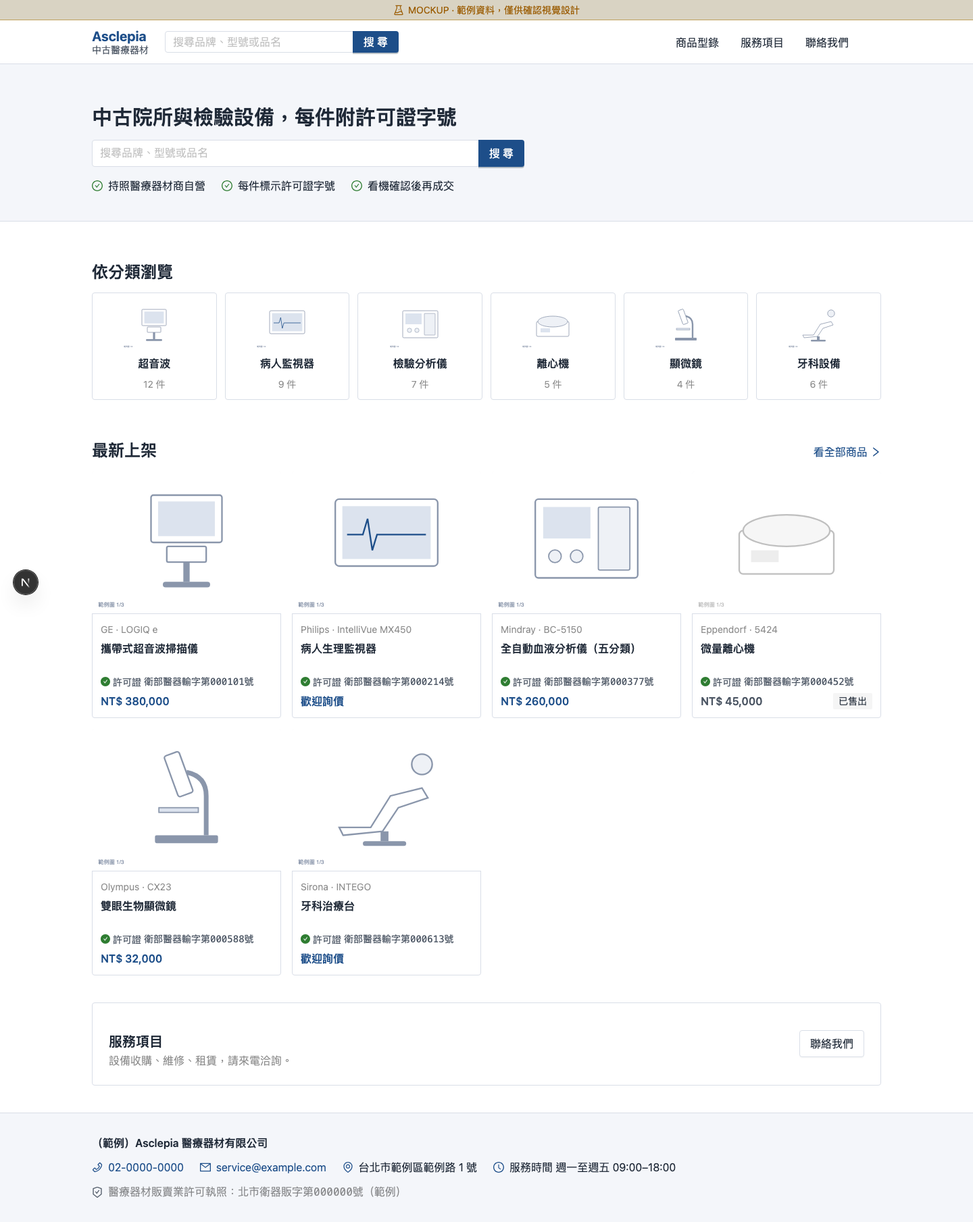
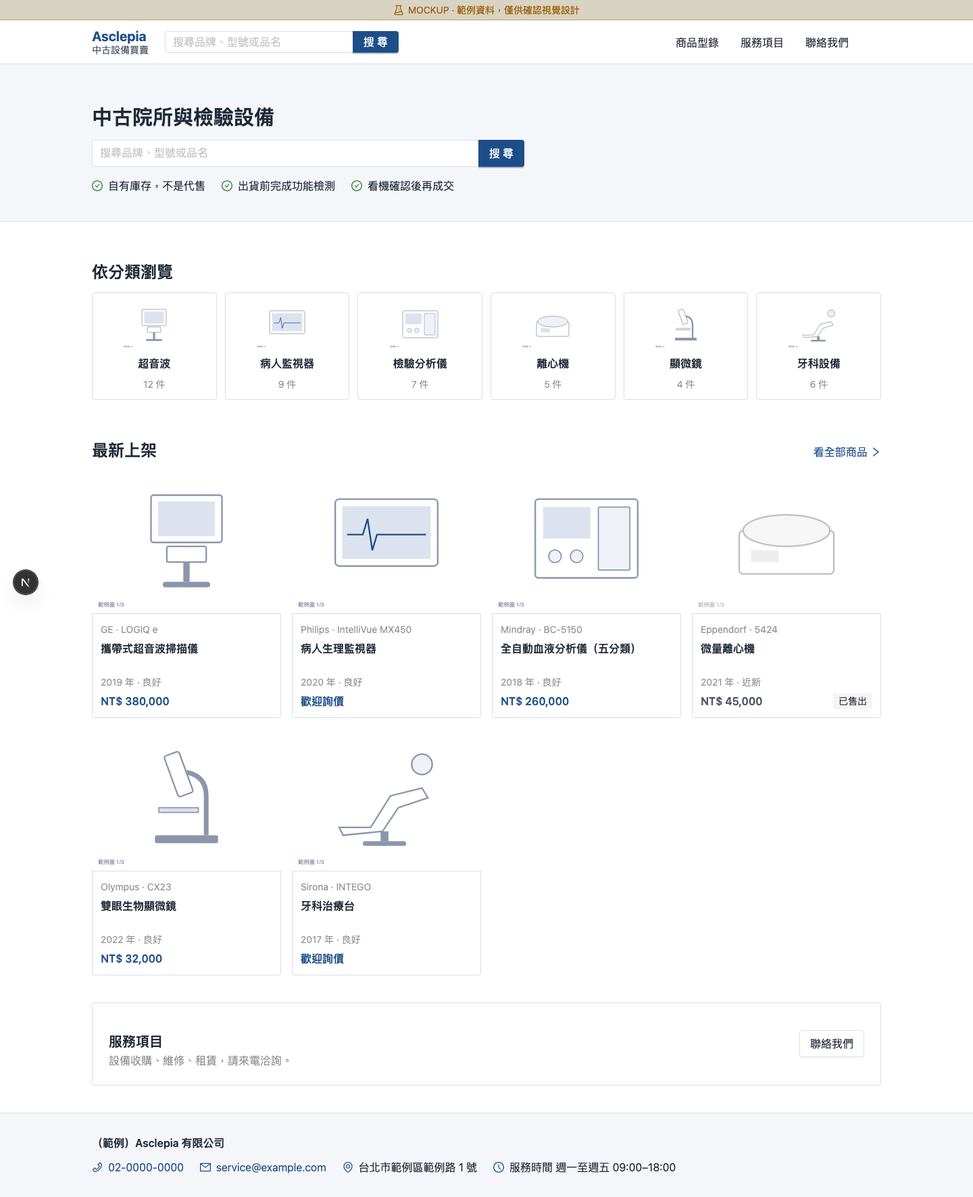
docs: reposition Asclepia as used-equipment trading and record legal boundary
- CLAUDE.md v1.1：§0／§0.1／R11／R16 改寫，不做清單拿掉醫材法前提
- catalog.md v0.2：licenseNo 選填、移除上架必填 CHECK（R6，待用戶確認）
- research §5：醫材法 §3 逐字，品項邊界 🔒 待律師／衛生局
- mockup 截圖重拍（hydration 陽性／陰性對照通過），新增 admin-draft

diff --git a/CLAUDE.md b/CLAUDE.md
@@ -6,16 +6,16 @@
 
 > 狀態：**Scaffold 完成（2026-10-31）**：Next.js 16 + antd 6 骨架，`pnpm check` 和 `pnpm test:e2e` 全綠。下一步是 catalog M1。
 >
-> 本公司持有醫療器材販賣業許可執照，網站自營賣中古院所設備與檢驗設備：前台是型錄＋詢價，後台負責上架。
-> 棧規則附件：`docs/stack-rules/nextjs-prisma-antd.md`（R21，⏳ 待人 review，執法點 W1–W10 尚未全部接線）。商品模組設計：`docs/modules/catalog.md`（APPROVED）。視覺 mockup：`docs/mockups/README.md`（提案）。
-> 🔴 這是受醫療器材管理法規範的業務：§0.1 不做清單、R11 合規不變量都來自法條，**法規解讀不屬於 Claude Code 可以自行裁定的研究**（R7）。
+> 網站定位是**中古設備買賣**（用戶 2026-10-31：「當作中古器材買賣就行，我賣的是設備，不是『醫療』器材」）：自營賣中古院所設備與檢驗設備，前台是型錄＋詢價，後台負責上架。
+> 棧規則附件：`docs/stack-rules/nextjs-prisma-antd.md`（R21，⏳ 待人 review，執法點 W1–W10 尚未全部接線）。商品模組設計：`docs/modules/catalog.md`（APPROVED；v0.2 定位修訂待用戶確認）。視覺 mockup：`docs/mockups/README.md`（提案）。
+> 🔴 法規邊界：一件設備算不算醫療器材，依醫材法 §3 看它的設計與用途（診斷、治療…），不看新舊或賣方怎麼稱呼（research §5）。哪些品項落在線內**不屬於 Claude Code 可以裁定的事**（R7），送律師或衛生局 🔒。
 
 ---
 
 ## 0. 專案身份
 
 - **名稱**：Asclepia
-- **用途**：持照醫療器材商（本公司）自營的中古醫療器材網站。前台提供型錄與詢價，後台負責上架。
+- **用途**：本公司自營的中古設備買賣網站。前台提供型錄與詢價，後台負責上架。
 - **語言**：TypeScript
 - **運行**：單一 Next.js 應用（前台和後台在同一個 repo）＋ PostgreSQL；部署平台未定（§2.4）
 - **授權**：proprietary（用戶未指明，先用預設）
@@ -23,9 +23,9 @@
 
 ### 0.1 定位 ≠ MVP（pre-dev #1 #3）
 
-**一句話**：一家持照醫療器材商的中古院所與檢驗設備線上型錄。買家看得到規格和許可證字號，詢價後到場看機，線下成交。
+**一句話**：一家公司自營的中古院所與檢驗設備線上型錄。買家看得到照片、規格和狀況，詢價後到場看機，線下成交。
 
-**完整定位**：自營車行模式。業務組合跟參考站 [used-equip](https://www.used-equip.com.tw/service) 一樣是「銷售／收購／維修／租賃」，但參考站賣的是電子測試儀器，不是醫療器材（研究見 `docs/research/2026-10-31-reference-and-regulation.md` §1）。
+**完整定位**：自營車行模式。業務組合跟參考站 [used-equip](https://www.used-equip.com.tw/service) 一樣是「銷售／收購／維修／租賃」，參考站賣電子測試儀器、沒有醫材商執照，本站比照它做一般中古設備買賣（研究見 `docs/research/2026-10-31-reference-and-regulation.md` §1）。
 - **唯一賣方**：本公司
 - **買方**：醫療器材商、一般民眾
 - **品類**：院所專業設備、檢驗／實驗室設備
@@ -38,26 +38,25 @@
 
 | 定位有、MVP 沒有 | 裁定 |
 |---|---|
-| 收購估價 | 用戶 2026-10-31 裁定 MVP 只做型錄＋詢價。另外醫材法 §17「醫療器材商不得購入…非醫療器材商供應之醫療器材」，開做前要先確認法規 🔒 |
+| 收購估價 | 用戶 2026-10-31 裁定 MVP 只做型錄＋詢價 |
 | 維修／租賃預約 | 同一次裁定，MVP 不做 |
 
 | 不做 | 理由 |
 |---|---|
-| 第三方刊登／多賣家 | 用戶裁定採自營（2026-10-31）。第三方賣家依 §13 各自要有執照，平台還得負責驗證資格 |
-| 線上下單付款 | 通訊交易規定第四點：線上販售「以第一等級及附件所列之第二等級醫療器材品項為限」（附件只有 19 項，都是居家耗材類）。本站品類幾乎都不在內 |
+| 第三方刊登／多賣家 | 用戶裁定採自營（2026-10-31） |
+| 線上下單付款 | 用戶裁定 MVP 只做型錄＋詢價（2026-10-31）。若日後要開，品項中屬醫療器材者受通訊交易規定第四點限制（research §3），開做前先 🔒 |
 | 買家會員系統 | 詢價用不到會員，個資收越少越好 |
-| 療效／醫療效能文案 | 依 §40/§41，醫療器材廣告要事前核准；依 §44，專業用器材的廣告只能登在給醫事人員看的通路 |
-| 上架沒有許可證字號或登錄字號的器材 | §70-1-7 處罰「媒介…意圖販賣而陳列」未辦查驗登記的器材 |
+| 療效／醫療效能文案 | 醫材法 §3 以「診斷、治療、緩解…」定義醫療器材：商品文案寫療效，等於自己把設備講成醫療器材，文案也會落入 §6 醫療器材廣告 |
 
 ### 0.2 開工前決策紀錄（`docs/pre-dev-decisions.md` 25 格）
 
 | # | 決策 | 狀態 |
 |---|---|---|
 | 1 / 3 | §0.1 | ✅ |
-| 2 分母 | 品類：《醫療器材分類分級管理辦法》附表＋公司現有庫存。商品頁欄位：參考站商品頁＋通訊交易規定第五點的揭露欄位。法規：醫材法全文 | ✅ 來源見 research |
-| 4 首位使用者 | 本公司（已有醫材商執照）。真實資料＝公司現有庫存 | ⏳ 請提供 10–20 筆真實商品，當資料模型的壓力測試 |
+| 2 分母 | 品類：公司現有庫存（初始分類清單由用戶提供）。商品頁欄位：參考站商品頁。法規：醫材法全文（只用來畫「哪些品項算醫療器材」的邊界，research §5） | ✅ 來源見 research |
+| 4 首位使用者 | 本公司。真實資料＝公司現有庫存 | ⏳ 請提供 10–20 筆真實商品，當資料模型的壓力測試 |
 | 5 棧 | §2.0 對照表 | ✅；棧規則 ⏳ scaffold 後同一天生成（產生器要讀實際鎖檔版本） |
-| 6 資料根 | **單租戶**（唯一賣方，不做 RLS 多租戶）· 後台角色 deny-by-default · 金額存 TWD 整數 `Decimal(12,0)`，null＝詢價，禁用 float · audit 只能新增（append-only）· 商品留來源／流向欄位（§19） | ✅ |
+| 6 資料根 | **單租戶**（唯一賣方，不做 RLS 多租戶）· 後台角色 deny-by-default · 金額存 TWD 整數 `Decimal(12,0)`，null＝詢價，禁用 float · audit 只能新增（append-only）· 商品留收購來源欄位（來歷紀錄，只在後台可見） | ✅ |
 | 7 授權 | 專案 proprietary。相依套件只收 MIT／BSD／Apache-2.0／ISC，其他授權逐案讀 LICENSE 本文 | ✅ |
 | 8 fork／自研 | 自研。參考站只看功能的形狀，不抄程式碼、文案、圖片 | ✅ |
 | 9 repo 形態 | 單一 Next.js app 的 modular monolith（`src/modules/<domain>`）。dependency-cruiser 進 CI，擋循環依賴和跨模組 deep import | ✅ |
@@ -121,12 +120,12 @@
 
 | 規則 | 說明 |
 |---|---|
-| **R11** | **醫材合規不變量**（醫材法 §70-1-7、§40、通訊交易規定第五點）：①商品上架時**許可證字號或登錄字號必填**（草稿可以先空著），DB 層用 CHECK 約束「`status='PUBLISHED'` ⇒ `licenseNo` 非空」，前台商品頁一級顯示；②前台**沒有任何下單、付款、購物車路徑**，只能詢價；③後台文案欄位擋療效字詞（關鍵字守衛，送出時警告並寫 audit）。執法點：Prisma schema + migration CHECK + 一支 e2e 驗證「缺字號無法上架」+ grep 守衛擋 `checkout\|cart\|payment` 路由 |
+| **R11** | **型錄不變量**（2026-10-31 定位改為中古設備買賣後修訂）：①前台**沒有任何下單、付款、購物車路徑**，只能詢價（MVP 範圍，用戶裁定）；②後台文案欄位擋療效字詞（醫材法 §3 以療效定義醫療器材、§6 定義醫材廣告；關鍵字守衛，送出時警告並寫 audit）；③醫療器材許可證字號**選填**，有值才在商品頁顯示。執法點：grep 守衛擋 `checkout\|cart\|payment` 路由 + `src/modules/catalog/efficacy-words.ts` 單元測試 |
 | **R12** | **單語 zh-TW，不上 i18n 框架**：買方都在台灣，法規要求的揭露文字是中文。UI 文案集中在 `src/copy/`，不散落在元件裡，以後要多語時才有遷移起點 |
 | **R13** | **Component spacing**：button group / form group 一律用 antd `<Flex gap>` / `<Space>`，元件裡禁止用 inline `style` 的 margin 做間距。執法點：`scripts/guards/no-inline-margin.sh` |
 | **R14** | **新代碼框架**：一律放在同一個 Next.js App Router app 裡，Server Component 優先；不另外開 SPA 或獨立後端服務 |
 | **R15** | **出貨前清單**：solo 直接 commit，不走 PR（memory `feedback_no_pr_workflow`）。每個功能標「完成」前必須走過 `docs/pre-pr-checklist.md` |
-| **R16** | **前端設計鐵則**：所有前端產出必過 `docs/frontend-design-principles.md` **§A 普世核心**（token、a11y、全狀態、響應式、複用、文案）+ **§C 設計流程迴圈**。🔴 **§B 美學 profile 於開工時決定**（見 `docs/pre-dev-decisions.md` §二）——profile 的正確來源是**目標使用者的母心智模型與競品實測**，不是預設鎖一個名字（2026-09 更新：前一版鎖 `modern-SaaS-craft`，在一個 B2B 表單專案被實戰推翻 —— 那個 profile 與使用者要的「紙的形狀」全面相反）。定了之後 Claude Code 不得自行換；要換由人改本鐵則並說明理由。**本專案（2026-10-31）**：用戶說「前端視覺設計不限制」，授權 Claude 裁定，選自訂 profile **`spec-catalog`**：規格表優先、商品照片大、許可證字號等合規欄位一級顯示、中高密度、不走 SaaS 儀表板語言。8 項細節在第一個前端 M0 競品實測後寫進 `frontend-design-principles.md` §B0 |
+| **R16** | **前端設計鐵則**：所有前端產出必過 `docs/frontend-design-principles.md` **§A 普世核心**（token、a11y、全狀態、響應式、複用、文案）+ **§C 設計流程迴圈**。🔴 **§B 美學 profile 於開工時決定**（見 `docs/pre-dev-decisions.md` §二）——profile 的正確來源是**目標使用者的母心智模型與競品實測**，不是預設鎖一個名字（2026-09 更新：前一版鎖 `modern-SaaS-craft`，在一個 B2B 表單專案被實戰推翻 —— 那個 profile 與使用者要的「紙的形狀」全面相反）。定了之後 Claude Code 不得自行換；要換由人改本鐵則並說明理由。**本專案（2026-10-31）**：用戶說「前端視覺設計不限制」，授權 Claude 裁定，選自訂 profile **`spec-catalog`**：規格表優先、商品照片大、設備銘牌（品牌、型號、年份、狀況、保固）一級顯示、中高密度、不走 SaaS 儀表板語言。8 項細節在第一個前端 M0 競品實測後寫進 `frontend-design-principles.md` §B0 |
 
 ### 1.4 執行模式（autonomy level）
 
@@ -309,3 +308,4 @@ PR 內容必含：目的、變更內容、測試結果、影響範圍。
 | 日期 | 版本 | 變更 | 作者 |
 |---|---|---|---|
 | 2026-10-31 | v1.0 | 初版：走過 pre-dev 25 格，填入定位、棧、合規不變量（R11）、profile（R16）、執行模式 | Claude Code（與用戶逐格裁定） |
+| 2026-10-31 | v1.1 | 用戶改定位：「當作中古器材買賣就行，我賣的是設備，不是『醫療』器材」。§0／§0.1／R11／R16 改寫；許可證字號改選填；法規邊界移到 research §5 | Claude Code（依用戶指示） |

diff --git a/docs/modules/catalog.md b/docs/modules/catalog.md
@@ -5,7 +5,9 @@
 > 前台商品頁照參考頁 [used-equip /product/22/67](https://www.used-equip.com.tw/product/22/67) 的內容結構；所有商品（圖片、資訊）都從後台上傳。這是 MVP 的核心模組，詢價（inquiry）是另一個模組，本檔只定義它的入口。
 >
 > 作者：Claude Code（草擬）
-> 版本：v0.1（2026-10-31）
+> 版本：v0.2（2026-10-31）
+>
+> **v0.2 修訂（用戶 2026-10-31：「當作中古器材買賣就行，我賣的是設備，不是『醫療』器材」）**：網站定位從醫療器材型錄改為中古設備買賣。`licenseNo` 改選填、拿掉「上架必填」的 DB CHECK；收購來源改成一般來歷紀錄（`sourceContact`）。資料模型變更依 R6 隨本次修訂一併送用戶確認。法規邊界見 research §5。
 
 ---
 
@@ -16,11 +18,11 @@
 1. 員工能在後台**新增商品**：上傳多張圖片（可排序、可指定主圖），填寫品牌、型號、品名、產品訊息、規格、特色，存成草稿或直接上架
 2. 員工能**編輯、下架、標記已售出**，每一筆寫入都留 audit（R5）
 3. 訪客能在前台**依分類瀏覽、搜尋**；商品頁的區塊順序跟參考頁一致（§4.3）
-4. **少了許可證字號或登錄字號的商品，上架會被系統擋下**（R11）
+4. 上架前檢查：至少 1 張圖片、中文品名、分類，缺一項不能上架。醫療器材許可證字號**選填**，有填才顯示（v0.2）
 
 ### 1.2 不做的事
 
-- ❌ 線上下單、購物車、付款（R11；通訊交易規定第四點）
+- ❌ 線上下單、購物車、付款（MVP 範圍，用戶 2026-10-31 裁定；R11）
 - ❌ 富文本編輯器（HTML 欄位等於 stored XSS 面，規格改用結構化欄位，見 OQ-CAT-2）
 - ❌ 外部賣場連結（參考頁有 Yahoo、露天連結；見 OQ-CAT-4）
 - ❌ 多語系（R12）
@@ -47,11 +49,11 @@
 | 11 | 「〔 回列表 〕」 | 回到分類列表（保留篩選條件） | — |
 | 12 | 頁尾電話、傳真、email、地址 | 站台設定（`SiteSetting`） | 後台設定頁 |
 | — | **參考頁沒有、本站要加的** | | |
-| A | 許可證字號／登錄字號 | `licenseNo`，上架時必填，商品頁一級顯示（R11） | 必填欄位＋格式提示 |
+| A | 醫療器材許可證字號（選填） | `licenseNo`，有值才在銘牌最後一列顯示（v0.2） | 選填欄位 |
 | B | 詢價入口 | 「詢價這件商品」按鈕（OQ-CAT-3） | — |
 | C | 價格、狀況、保固 | 選填（OQ-CAT-5） | 選填欄位 |
 | D | 商品狀態 | 草稿／上架／下架／已售出（OQ-CAT-8） | 狀態切換 |
-| E | 收購來源（§19 流向紀錄） | `sourceName` `sourceLicenseNo`，**只在後台可見** | 選填 |
+| E | 收購來源（來歷紀錄） | `sourceName` `sourceContact`，**只在後台可見** | 選填 |
 
 上游現況：repo 裡沒有程式碼（查法：`find . -name '*.ts*' -not -path './node_modules/*'` 回 0 筆），所以全部是新做。
 
@@ -61,7 +63,7 @@
 
 | 子題 | 內容 |
 |---|---|
-| **A1 資料模型＋後台商品 CRUD** | Prisma schema、migration（含 R11 CHECK）、後台列表與表單、狀態切換、audit |
+| **A1 資料模型＋後台商品 CRUD** | Prisma schema、migration、後台列表與表單、狀態切換、audit |
 | **A2 圖片上傳管線** | 驗證、重新編碼、去 EXIF、產生尺寸、排序、指定主圖 |
 | **A3 前台型錄** | 分類列表（cursor 分頁 ≤ 48 筆）、搜尋、商品頁（照 §2 區塊順序）、SEO meta |
 | **A4 後台登入** | Auth.js、只有白名單帳號能登入、`requireAdmin()` 單一入口 |
@@ -88,15 +90,15 @@ model Product {
   model           String        // ≤ 80
   nameEn          String?       // ≤ 160
   nameZh          String        // ≤ 160
-  licenseNo       String?       // R11：status=PUBLISHED 時必須有值（migration 手寫 CHECK）
+  licenseNo       String?       // 選填；只有醫療器材才有（v0.2 拿掉上架必填 CHECK）
   priceTwd        Decimal?      @db.Decimal(12, 0)  // null = 歡迎詢價
   condition       String?       // OQ-CAT-5
   warranty        String?       // OQ-CAT-5
   highlights      String[]      // 產品訊息，≤ 30 點
   features        String[]      // Main Features，≤ 50 點
   specNote        String?       // 純文字，≤ 5000 字
-  sourceName      String?       // 收購來源（§19），只在後台可見
-  sourceLicenseNo String?
+  sourceName      String?       // 收購來源，只在後台可見
+  sourceContact   String?
   publishedAt     DateTime?
   createdAt       DateTime      @default(now())
   updatedAt       DateTime      @updatedAt
@@ -130,12 +132,12 @@ model AuditLog     { id BigInt @id @default(autoincrement()); actorId String; ac
 ### 4.3 UI
 
 **後台商品表單**，由上到下照前台的顯示順序排列，員工填完就知道前台長什麼樣：
-分類 → 圖片（拖曳上傳＋排序）→ 品牌／型號／英文品名／中文品名（旁邊即時預覽組好的標題）→ **許可證字號** → 產品訊息 → 規格（動態列＋「貼上原廠規格」按鈕）→ Main Features → 價格／狀況／保固 → 收購來源（標「僅後台可見」）→ 〔存草稿〕〔上架〕
+分類 → 圖片（拖曳上傳＋排序）→ 品牌／型號／英文品名／中文品名（旁邊即時預覽組好的標題）→ 產品訊息 → 規格（動態列＋「貼上原廠規格」按鈕）→ Main Features → 價格／狀況／保固 → 醫療器材許可證（選填）→ 收購來源（標「僅後台可見」）→ 〔存草稿〕〔上架〕
 
-- 「上架」時才檢查許可證字號，存草稿不檢查。缺字號時回：「上架前請填寫許可證字號或登錄字號」
-- 文案欄位有療效字詞守衛（R11 ③）：送出時警告，列出命中的詞，不硬擋（守衛會誤判），但會寫進 audit
+- 「上架」時才檢查圖片、中文品名、分類，存草稿不檢查
+- 文案欄位有療效字詞守衛（R11 ②）：送出時警告，列出命中的詞，不硬擋（守衛會誤判），但會寫進 audit
 
-**前台商品頁**，區塊順序照 §2：分類標題 → 圖片（主圖＋縮圖列）→ 標題 → 品牌型號區塊 → **許可證字號** → 〔詢價這件商品〕→ 產品訊息 → 規格表 → Main Features → 回列表。
+**前台商品頁**，區塊順序照 §2：分類標題 → 圖片（主圖＋縮圖列）→ 標題 → 設備銘牌（品牌、型號、年份、保固、狀況；有許可證字號才多一列）→ 〔詢價這件商品〕→ 產品訊息 → 規格表 → Main Features → 回列表。
 視覺依 `spec-catalog` profile。8 項細節在前端 M0 寫定後才開始做畫面（`frontend-design-principles.md` §B0）。
 
 ---
@@ -149,7 +151,7 @@ model AuditLog     { id BigInt @id @default(autoincrement()); actorId String; ac
 | **容量** | 預估商品百到千件、每件 ≤ 20 張圖。列表查詢走 `(status, categoryId, publishedAt)` index＋cursor 分頁 |
 | **失效** | 圖片轉檔逾時 30s 就失敗，並回人看得懂的句子；storage 寫入失敗時不寫 DB 列（先寫檔、後寫列，留下的孤兒檔由定期清理處理） |
 | **觀測** | audit log 本身就是後台操作紀錄；轉檔失敗用結構化 log 記下 productId 與原因，不記檔案內容 |
-| **資料生命週期** | 本模組沒有 PII；收購來源只在後台可見。下架或已售出的商品不硬刪（要保留 §19 流向紀錄） |
+| **資料生命週期** | 本模組沒有 PII；收購來源只在後台可見。下架或已售出的商品不硬刪（保留成交與來歷紀錄） |
 | **兼容** | 全新表，沒有遷移負擔 |
 | **成本** | 圖片儲存：1000 件 × 20 張 × 約 400KB ≈ 8GB，等 §2.4 部署決定後再估月費 |
 
@@ -158,8 +160,8 @@ model AuditLog     { id BigInt @id @default(autoincrement()); actorId String; ac
 | 層級 | 覆蓋 |
 |---|---|
 | Unit | 標題組合、規格貼上解析（陽性：參考頁那段規格文字；陰性：空字串、沒有冒號的行）、療效字詞守衛 |
-| Integration（testcontainers，低權 app role） | 「PUBLISHED 但沒有 licenseNo」會被 DB CHECK 擋下；audit 的 UPDATE、DELETE 會被拒 |
-| E2E（Playwright） | 後台上架完整流程（上傳 3 張圖 → 排序 → 上架 → 前台看得到）；缺字號無法上架；未登入打不到後台 |
+| Integration（testcontainers，低權 app role） | 缺圖片／中文品名／分類的商品無法上架；audit 的 UPDATE、DELETE 會被拒 |
+| E2E（Playwright） | 後台上架完整流程（上傳 3 張圖 → 排序 → 上架 → 前台看得到）；缺中文品名無法上架；未登入打不到後台 |
 
 ## 9. 里程碑
 
@@ -189,7 +191,7 @@ model AuditLog     { id BigInt @id @default(autoincrement()); actorId String; ac
 | **OQ-CAT-1** | 標題怎麼來 | A. 由品牌＋型號＋英文品名＋中文品名自動組合 · B. 另外一欄自由輸入 | **A** — 參考頁的標題就是這四個欄位的組合；分開輸入會出現標題和欄位不一致（參考頁的「HDMI2.0+HDCP2.2」就重複了兩次） |
 | **OQ-CAT-2** | 規格怎麼輸入 | A. 結構化「標籤／值」列＋貼上原廠規格自動拆列 · B. 一個富文本框 | **A** — 前台版面能保持一致，以後可以依規格篩選，也沒有 HTML 注入面；貼上解析讓輸入速度跟富文本差不多 |
 | **OQ-CAT-3** | 詢價入口 | A. 商品頁有詢價表單（自動帶入商品）＋電話 · B. 只放電話、email（同參考頁） · C. 加 LINE | **A** — 後台看得到每筆詢價問的是哪件商品；B 最簡單，但詢價來源無從追蹤 |
-| **OQ-CAT-4** | 要不要外部賣場連結（Yahoo、露天） | A. 不做 · B. 做 | **A** — 拍賣網本身就是「通訊交易通路」，第二、三等級器材在上面賣違反通訊交易規定第四點，連過去等於導流到違規通路 |
+| **OQ-CAT-4** | 要不要外部賣場連結（Yahoo、露天） | A. 不做 · B. 做 | **A** — MVP 先不做。（v0.1 的理由是通訊交易規定第四點；v0.2 改定位為設備買賣後，這個理由只對醫療器材品項成立。要連拍賣網時再重開這題） |
 | **OQ-CAT-5** | 價格、狀況、保固 | A. 都選填，價格空白時顯示「歡迎詢價」 · B. 都不顯示（同參考頁） | **A** — 選填就涵蓋了 B 的情況；參考站在服務頁寫了「一律提供三個月保固」，可以做成站台預設值 |
 | **OQ-CAT-6** | 後台登入方式 | A. Google 登入＋email 白名單 · B. 帳號密碼（Argon2id） | 公司用 Google Workspace 選 **A**（不必自己保管密碼）；沒有的話選 B |
 | **OQ-CAT-7** | 後台角色 | A. 單一 admin · B. admin＋editor | **A** — MVP 人數少；`requireAdmin()` 單一入口，以後要拆角色也很容易 |

diff --git a/docs/mockups/README.md b/docs/mockups/README.md
@@ -1,6 +1,6 @@
 # Mockups
 
-> **身分：提案（2026-10-31）**——等用戶確認視覺設計。確認後改成「待落地」；元件接上真資料後改成「已落地」，並在這裡註明落地的 commit。
+> **身分：提案（2026-10-31）**——等用戶確認視覺設計。同日依用戶指示改為「中古設備買賣」定位重拍（許可證字號改選填）。確認後改成「待落地」；元件接上真資料後改成「已落地」，並在這裡註明落地的 commit。
 > 稿是證據不是權威：視覺規則的權威是 `docs/frontend-design-principles.md` §B0 和 `src/theme/tokens.ts`。
 
 ## 怎麼看
@@ -12,7 +12,7 @@ open http://localhost:3200/mockup
 
 - 用 `localhost`，不要用 `127.0.0.1`：Next 16 dev server 會擋其他來源的 dev 資源，頁面不會 hydrate，看起來正常但什麼都點不動（AGENTS.md Miscellaneous）。
 - production build 由 `src/proxy.ts` 對 `/mockup` 回 404；`ENABLE_MOCKUPS=1` 才開放。`e2e/mockup-gate.spec.ts` 驗證這件事。
-- 頁面都是真的 antd 元件，用 `src/app/mockup/_data.ts` 的範例資料（許可證字號刻意用 000xxx）。元件放在 `src/components/{catalog,admin}`，接真資料時直接沿用。
+- 頁面都是真的 antd 元件，用 `src/app/mockup/_data.ts` 的範例資料（許可證字號刻意用 000xxx，而且只有部分商品有，示範選填）。元件放在 `src/components/{catalog,admin}`，接真資料時直接沿用。
 
 ## 畫面清單（截圖在 `2026-10-31/`，桌機 1440、手機 390）
 
@@ -28,6 +28,7 @@ open http://localhost:3200/mockup
 | 後台商品管理 | `/mockup/admin/products` | `admin-products-*.png` |
 | 新增商品 | `/mockup/admin/products/new` | `admin-new-*.png` |
 | 編輯商品 | `/mockup/admin/products/p1` | `admin-edit-*.png` |
+| 編輯草稿（缺中文品名，上架鈕鎖住） | `/mockup/admin/products/p7` | `admin-draft-*.png` |
 | 詢價紀錄 | `/mockup/admin/inquiries` | `admin-inquiries-*.png` |
 
 ## 設計決策（§C 迴圈的紀錄）
@@ -37,14 +38,14 @@ open http://localhost:3200/mockup
 | 參考 | 做對的 | 最弱的 | 我們怎麼做 |
 |---|---|---|---|
 | used-equip（台灣、測試儀器） | 分類側欄＋卡片格線；商品頁上圖下規格 | 規格文字牆、圖片比例不一、沒有價格也沒有詢價鈕、首屏 1/3 是輪播 | 規格改成表格；圖片固定 4:3；價格或「歡迎詢價」＋詢價鈕放首屏 |
-| Soma Tech（美國、醫材） | 頁首常駐搜尋框；依製造商瀏覽；Quote Cart | 分類頁開頭是大段療效文案（台灣會落在醫材法 §40） | 頁首搜尋＋品牌篩選；不放療效文案，後台還會警告 |
+| Soma Tech（美國、醫材） | 頁首常駐搜尋框；依製造商瀏覽；Quote Cart | 分類頁開頭是大段療效文案（在台灣，寫療效等於把設備講成醫療器材，醫材法 §3、§6） | 頁首搜尋＋品牌篩選；不放療效文案，後台還會警告 |
 | Block Imaging（美國、影像設備） | 單一主行動（Contact Us）很清楚 | 首頁只有人物照片 hero，看不到設備 | 首頁直接放分類與最新上架 |
 
 DOTmed（403 擋自動化瀏覽器）、MedWOW（憑證無效）沒有截到圖，**未查證**。
 
-**Signature（§C4，整份設計唯一的記憶點）**：設備銘牌。商品頁把許可證字號、品牌、型號、年份、保固、狀況排成一塊四角有螺絲的銘牌，卡片上也有縮小版的許可證行。理由：真實設備就有這塊牌子，而且它把法規要求的欄位擺在最前面，不是藏在頁尾。其他地方保持安靜：海軍藍、4px 圓角、平面、不做輪播。
+**Signature（§C4，整份設計唯一的記憶點）**：設備銘牌。商品頁把品牌、型號、年份、保固、狀況排成一塊四角有螺絲的銘牌，有許可證字號的商品多一列；卡片上是「年份 · 狀況」一行。理由：真實設備就有這塊牌子，而它上面的欄位正是買中古設備的人第一眼要確認的。其他地方保持安靜：海軍藍、4px 圓角、平面、不做輪播。
 
-**後台**：14px 密度；編輯頁右側固定「上架前檢查」清單（許可證字號、圖片、中文品名、分類），沒全過就不能按「上架」，把 R11 變成看得見的 UI；規格可以貼上原廠文字自動拆列（`src/modules/catalog/spec-parse.ts`，有測試）；產品訊息寫到療效字詞會跳警告。
+**後台**：14px 密度；編輯頁右側固定「上架前檢查」清單（圖片、中文品名、分類），沒全過就不能按「上架」；醫療器材許可證字號是選填欄位，放在價格與狀況之後；規格可以貼上原廠文字自動拆列（`src/modules/catalog/spec-parse.ts`，有測試）；產品訊息寫到療效字詞會跳警告。
 
 ## 還不是真的
 

diff --git a/docs/research/2026-10-31-reference-and-regulation.md b/docs/research/2026-10-31-reference-and-regulation.md
@@ -59,3 +59,27 @@
 ## 4. 國際同類（僅搜尋結果摘要，未逐站實測 —— 標待驗證）
 
 MedWOW（國際二手醫材市集）、MedMarketplace（刊登費每件 US$1–3 + 成交 5% 佣金）、BidMed（醫院閒置設備，自有鑑價、與廠商翻修再保固）。來源：WebSearch 2026-10-31，未讀原站。台灣本地同類：中文搜尋「中古 二手 醫療設備 買賣 平台 台灣」回 0 筆本地結果 —— **只用過一種查法，不可當作「台灣沒有」**。
+
+## 5. 定位修訂：中古設備買賣，不是醫療器材型錄（2026-10-31）
+
+**用戶裁定（逐字）**：「https://www.used-equip.com.tw/ 沒有沒有『醫療器材販賣業許可執照』啊，當作中古器材買賣就行，我賣的是設備，不是『醫療』器材」
+
+⇒ 本站比照參考站做一般中古設備買賣。§2、§3 的條文**不再是全站的前提**，只用來畫「哪些品項會落進醫材法」這條邊界。
+
+**醫材法 §3（逐字，https://law.moj.gov.tw/LawClass/LawAll.aspx?pcode=L0030106 ，法規整編資料截止日 115-10-22，查證日 2026-10-31）**：
+
+> 本法所稱醫療器材，指儀器、器械、用具、物質、軟體、體外診斷試劑及其相關物品，其設計及使用係以藥理、免疫、代謝或化學以外之方法作用於人體，而達成下列主要功能之一者：
+> 一、診斷、治療、緩解或直接預防人類疾病。
+> 二、調節或改善人體結構及機能。
+> 三、調節生育。
+
+[解讀，未經律師／衛生局確認]
+- 定義看的是**設計及使用的主要功能**，條文裡沒有「新品／二手」或「賣方如何稱呼」的區分（查法：§3 全文沒有這類字眼；§2 研究時已確認全文查無「二手」「中古」）。
+- 所以「我賣的是設備」是**商業定位**，不會自動讓單一品項落在醫材法之外。逐品項看：用來診斷或治療人的（例如超音波、病人監視器、牙科治療台、臨床用血液分析儀）依定義較可能是醫療器材；一般實驗室設備（離心機、研究用顯微鏡、恆溫箱）較可能不是。
+- 若某品項是醫療器材，§13（販賣要有醫材商執照）、§70-1-7（陳列未查驗登記的器材）仍適用，跟網站怎麼標示無關。
+
+**🔒 待確認（送律師或衛生局，Claude 不裁定）**：
+1. 公司實際要上架的品項清單中，哪些屬於醫療器材？（請帶真實品項清單去問）
+2. 若有屬於醫療器材的品項：公司是否持有醫療器材販賣業許可執照？（2026-10-31 第一輪問答選了「已有醫材商執照」，與本次說法要對齊）
+
+**系統怎麼兼容兩種答案**：許可證字號改成選填欄位，有填才在商品頁顯示；療效字詞警告保留（寫療效＝自己把設備講成醫療器材）。答案確定前不需要再改資料模型。

diff --git a/docs/frontend-design-principles.md b/docs/frontend-design-principles.md
@@ -96,15 +96,15 @@
 > profile 決定密度、形狀語言、色彩性格、是否用漸層、深度（陰影）、字體性格、動效個性、avoid-list。
 > **換 profile 不影響 §A。** 一個 profile 至少定義這 8 項；正式採用前依 §A5 研究補齊。
 
-### B0. ✅ 本專案 profile：`spec-catalog`（中古醫材型錄）
+### B0. ✅ 本專案 profile：`spec-catalog`（中古設備型錄）
 
-- **方向**（2026-10-31 裁定）：規格表優先、商品照片大、許可證字號等合規欄位一級顯示、中高密度；母心智模型是原廠型錄、規格表，以及拍賣網商品頁（CLAUDE.md §0.2 #12）。
+- **方向**（2026-10-31 裁定）：規格表優先、商品照片大、設備銘牌（品牌、型號、年份、狀況、保固）一級顯示、中高密度；母心智模型是原廠型錄、規格表，以及拍賣網商品頁（CLAUDE.md §0.2 #12）。
 - **元件庫**：Ant Design 6（用戶 2026-10-31 指定）。**token 的單一權威是 `src/theme/tokens.ts`**（傳給 antd `ConfigProvider`）；元件裡禁止硬編色碼。
 - **依據**：2026-10-31 以 Playwright 實測參考站 used-equip（1440 與 390 寬，首頁／列表／商品頁／服務頁），觀察記錄見 `docs/research/2026-10-31-reference-and-regulation.md` §1b。
 
 | 項目 | 規則 | 執法點 |
 |---|---|---|
-| 密度 | 中高。列表在桌機 4 欄、平板 3 欄、手機 2 欄（參考站是 3 欄／2 欄）；商品頁首屏放主圖、標題、許可證字號、詢價按鈕 | e2e 在 390 寬檢查首屏看得到「詢價」 |
+| 密度 | 中高。列表在桌機 4 欄、平板 3 欄、手機 2 欄（參考站是 3 欄／2 欄）；商品頁首屏放主圖、標題、設備銘牌、詢價按鈕 | e2e 在 390 寬檢查首屏看得到「詢價」 |
 | 色彩 | 主色是海軍藍 `#1D4E89`（承接參考站的企業藍，但不照抄）；文字用 `#1F2937`，不用純黑；背景白，區塊底色 `#F4F6FA`；飽和色只用在主按鈕與 active 狀態 | `tokens.test.ts` 檢查所有文字／底色組合的 AA 對比 ≥ 4.5 |
 | 深度 | 平面為主：卡片用 1px hairline 邊框，hover 時才加輕陰影；不做層疊陰影 | token `boxShadow` 只定義一級 |
 | 填充 | 實色，**不用漸層**（參考站 banner 用的是漸層照片） | grep 守衛擋 `linear-gradient` |

diff --git a/docs/stack-rules/nextjs-prisma-antd.md b/docs/stack-rules/nextjs-prisma-antd.md
@@ -132,7 +132,7 @@ next 16.4.3 · react / react-dom 19.3.0 · typescript 5.9.3 · antd 6.6.7 · @an
   · 執法點:`pnpm test:e2e`(spec `e2e/security/action-replay.spec.ts`)· 出處 [N1]
 - **S4-3 [P0]** next-auth `signIn` callback 只在 `account.provider === 'google' && profile.email_verified === true && allowlist.has(email.trim().toLowerCase())` 時放行;`requireAdmin()` 每次都重查一次 allowlist —— 沒有 adapter 時 session 是 JWT、maxAge 預設 30 天([NA1] init.js L45/L66),把人從 allowlist 拿掉**不會撤銷已簽出的 JWT**
   · 執法點:單元測試(未驗證 email、不在名單、大寫 email、非 google provider、名單移除後 `requireAdmin` 拒絕,五案)· 出處 [NA1]
-- **S4-4 [P0]** 公開 DAL 只回傳 `status IN (PUBLISHED, SOLD)` 的商品;DRAFT / HIDDEN 用 id 直接打也回 404。公開 DTO 用 `select` 常數,不含 `sourceName` / `sourceLicenseNo` —— 這是本專案的 object-level 授權:單一賣方沒有 tenant,但有「未上架」。草稿可能還沒填許可證字號,被前台看到就違反 R11(醫材法 §70-1-7「意圖販賣而陳列」)
+- **S4-4 [P0]** 公開 DAL 只回傳 `status IN (PUBLISHED, SOLD)` 的商品;DRAFT / HIDDEN 用 id 直接打也回 404。公開 DTO 用 `select` 常數,不含 `sourceName` / `sourceContact` —— 這是本專案的 object-level 授權:單一賣方沒有 tenant,但有「未上架」。草稿可能還沒填許可證字號,被前台看到就違反 R11(醫材法 §70-1-7「意圖販賣而陳列」)
   · 執法點:整合測試(建立 DRAFT / HIDDEN → 每個公開 DAL 函式都查不到;公開 DTO 的鍵 ⊆ 白名單)· e2e(草稿 URL → 404)· 出處 [N1](DTO)
 - **S4-5 [P0]** 會改資料的 Route Handler 要自己比對 `Origin` 與 `NEXTAUTH_URL` 的 origin —— Server Action 有內建的 Origin/Host 比對 [N3],Route Handler 沒有(查法:`grep -n -iE "origin|csrf" …/03-file-conventions/route.md …/01-getting-started/15-route-handlers.md` 只命中 CORS 範例)。另外 Action 對「**沒有 Origin header 的請求只發警告、照樣放行**」(逐字 [N3]:"A request that carries no `Origin` header at all is allowed through with a warning rather than rejected")
   · 執法點:整合測試(上傳 handler:沒有 Origin / 外站 Origin → 403)· 出處 [N3]

diff --git a/docs/security-baseline.md b/docs/security-baseline.md
@@ -12,7 +12,7 @@
 
 ### 本專案 §0（Asclepia，2026-10-31 草案，⏳ 待人 review）
 
-**最值錢的資產**：①詢價者的個資（姓名、電話、email、單位）②商品資料的正確性與合規性（一個許可證字號錯了，就是公司醫材商執照的風險）③後台管理權。
+**最值錢的資產**：①詢價者的個資（姓名、電話、email、單位）②商品資料的正確性（價格、狀況、規格寫錯就是交易糾紛）③後台管理權。
 
 | # | 攻擊面 | 怎麼壞 | 緩解方向（落地時寫進對應 design doc） |
 |---|---|---|---|
@@ -20,7 +20,7 @@
 | 2 | **商品圖片上傳** | 檔案偽裝成 SVG 或 HTML 造成 stored XSS；超大檔或解壓炸彈；EXIF 夾帶 GPS 位置 | 只收 JPEG/PNG/WebP 並驗 magic bytes；伺服器端重新編碼並去除 EXIF；設大小上限；圖片從跟主網域分開的網域提供 |
 | 3 | **詢價表單（公開寫入端點）** | spam 或濫用；個資外洩（後台列表 BOLA、log 印出個資）；通知信 header injection | rate limit 加 bot 防護；個資不進 log；訂個資保留期限並在表單上告知（個資法）；寄信欄位不接受換行 |
 
-**跟攻擊面同級的 P0 合規不變量**：見 CLAUDE.md R11（許可證字號必填、沒有線上交易路徑、不放療效文案）。
+**跟攻擊面同級的 P0 合規不變量**：見 CLAUDE.md R11（沒有線上交易路徑、不放療效文案）。
 **不適用**：多租戶、RLS（單一賣方，§0.2 #6）；LLM（目前沒有 AI 功能。之後加上的話，§4 立刻生效）。
 
 ## §1 注入面

diff --git a/AGENTS.md b/AGENTS.md
@@ -16,7 +16,7 @@ This file provides guidance to AI coding assistants when working with code in th
 - Database schema is defined in `prisma/schema.prisma`
 - Migration files are in `prisma/migrations/`
 - Domain code lives in `src/modules/<domain>`; cross-module deep imports are blocked by dependency-cruiser
-- Regulatory invariants (license number required, no checkout path, no efficacy claims) — `CLAUDE.md` R11
+- Catalog invariants (no checkout path, no efficacy claims; medical-device licence number is optional) — `CLAUDE.md` R11
 
 ## Baselines (read before writing code)
 
@@ -44,7 +44,7 @@ This file provides guidance to AI coding assistants when working with code in th
 ### Prisma Schema Changes
 
 1. Edit `prisma/schema.prisma`, then `pnpm prisma migrate dev --name <change>`
-2. Read the generated SQL in `prisma/migrations/` — CHECK constraints for R11 are hand-written there
+2. Read the generated SQL in `prisma/migrations/` — hand-written CHECK constraints live there
 3. Commit schema + migration together; the generated client is not committed
 
 ## Build/Test Commands
